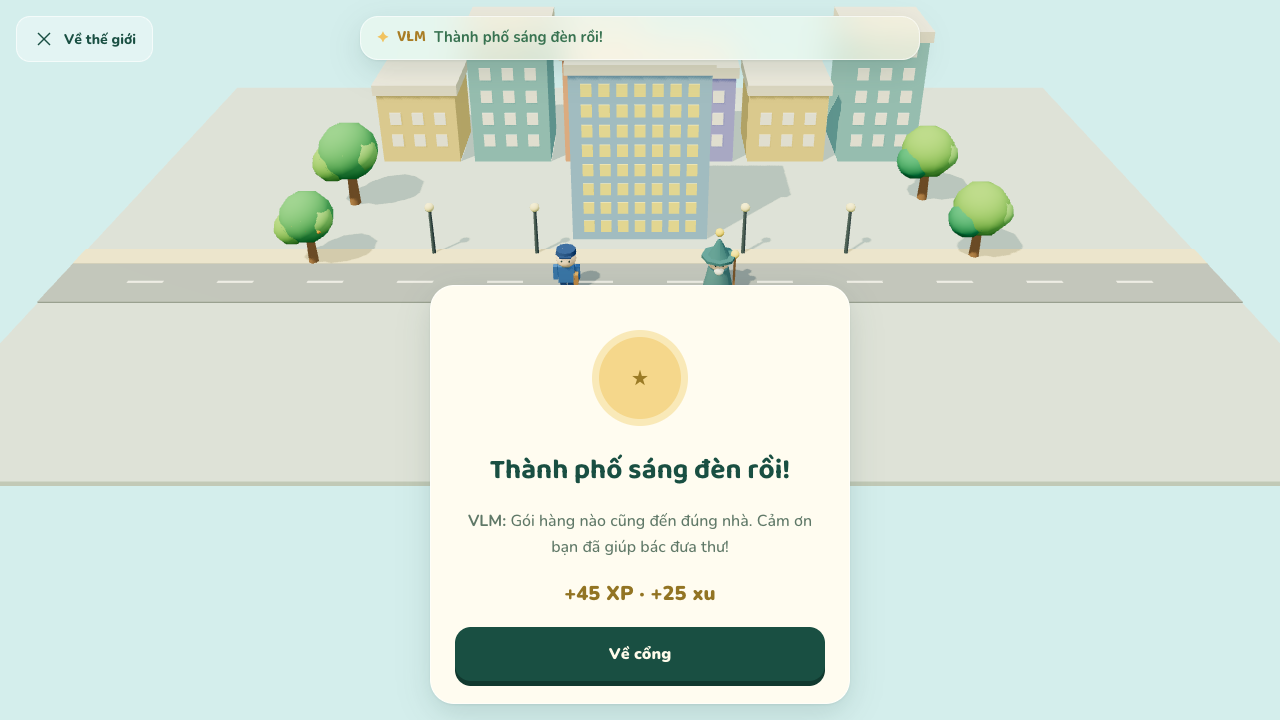
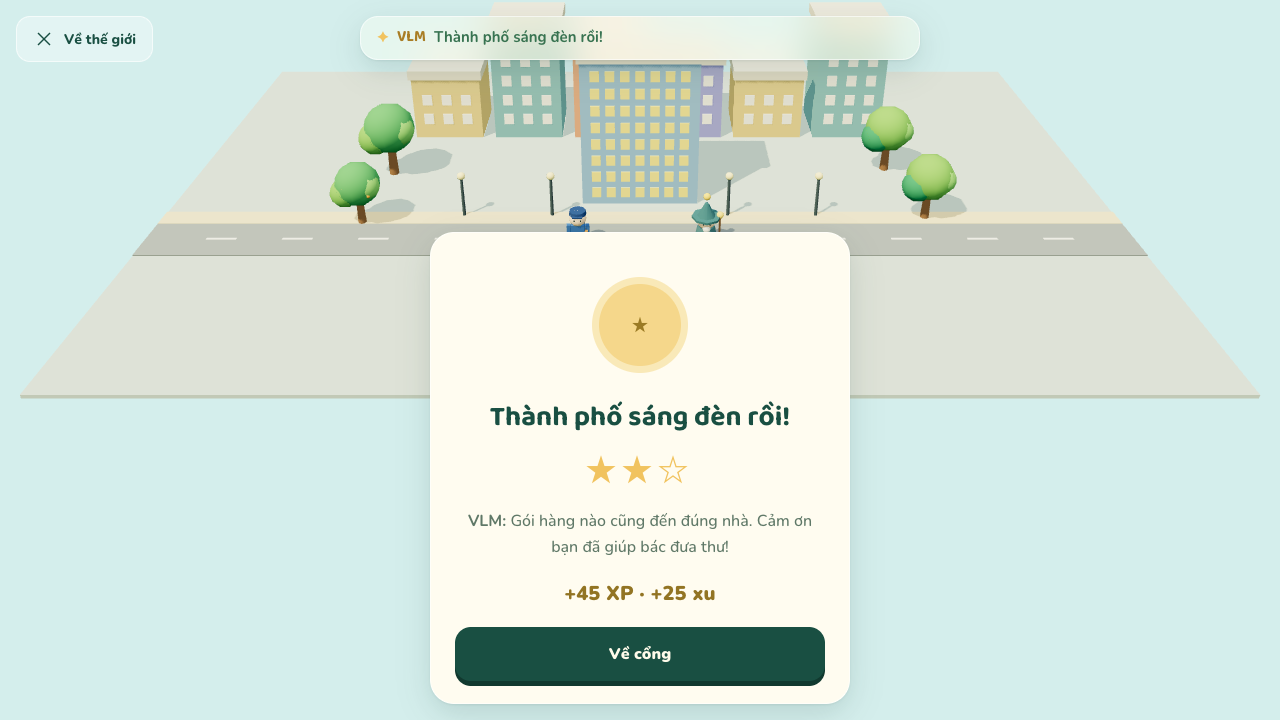
docs: record city/tower review fixes and refresh author-review screens

diff --git a/plans/261024-1515-city-and-tower-levels/phase-04-merge-e2e-parity-and-author-review.md b/plans/261024-1515-city-and-tower-levels/phase-04-merge-e2e-parity-and-author-review.md
@@ -44,3 +44,27 @@
 
 ## Next steps
 - Back to the old plan's phases 16–18 (Supabase, accounts, Vercel deploy).
+
+## Review fixes
+Findings from `reports/reviewer-city-tower-levels.md`, fixed on main (commits c98fb25, dc008f8, 49c81df, 206b232; tag `full-map-reviewed`).
+
+| Finding | Outcome |
+|---|---|
+| H1 city windows count shows the product | Fixed: lit floors only, "3/9 tầng sáng"; announcement "Tầng n sáng đèn. Đã sáng a trên b tầng." No window total anywhere. Unit `city-strings.test.ts`, e2e `city-level.spec.ts` asserts the exact text. |
+| H2 tower rung 4 shows the answer, floor still correct | Fixed: rung 4 is a strategy from a known fact (× 1, 2, 5, 10) with the result as "?" (e.g. "Mốc dễ nhớ: 8 × 5 = 40. Thêm 2 lần 8 nữa là ra 8 × 7 = ?"). The result only appears on the three-miss path (recorded not correct, Leitner requeue). Unit test sweeps every pool fact × format × step. |
+| M3 city reverse hints name the right parcel | Fixed: own rungs (find / compare with p / rule out an untried parcel / "p : t = ?"); unit test: no rung ≥2 names the right parcel or both factors. |
+| M4 `hintSkip` mentions windows in delivery | Fixed: `hintCount` for delivery rounds. |
+| M5 tower hint carries to next step | Fixed: rung resets and the hint area clears on step advance (hints taken still count). |
+| M6 true claim "Đúng" credited as recall | Fixed with a confirm step: after "Đúng" the claim is replaced by the same equation with "?" on the pad; one recorded question. |
+| M7 tower per-frame allocations | Fixed: stone spots precomputed, camera target reused. No test (perf, not behavior). |
+| M8 tower equation never announced, cards unnamed | Fixed: floor and step equations announced in words ("mấy nhân 7 bằng 56"); cards named "56 (phím 1)". Unit test + e2e aria-label check. |
+| M9 tower leak baseline after warm-up | Fixed: `tower-level-leak.spec.ts` uses the settled baseline before the first visit (shared `city-and-tower-settled-memory.ts`); both leak specs assert geometries and textures. |
+| L10 wrong houses still accept drops | Fixed: a wrong house (or reverse parcel) leaves the drop zones / picks for that round. |
+| L11 inverse of 8 × 10 outside the pool | Fixed: 80 : 8. |
+| L12 `hintTen` ambiguous | Fixed: counts back on the factor closest to 10 with clearer wording. |
+| L13 text nits | Fixed: tower `wrong` "Chưa đúng, mình thử lại nhé!", shorter tower intro, city `hintCommute` rephrased. |
+| L14 tower duplicates tally, city has no stars | Fixed: shared `levels/shared/level-run-tally.ts` (tested) used by city and tower; city celebration shows the star row (e2e: equals stored stars). Field keeps its own tally (out of scope). |
+| L15 H key only in city | Fixed: H in tower too; in both levels only while focus is in the level layer (or nowhere). |
+
+Gates: lint 0 errors / 9 pre-existing warnings, typecheck clean, unit 71 files / 473 tests, build ok, e2e 63 passed + 1 skipped (desktop-only full chain) on both projects, parity 20/20 without re-baseline, golden byte-identical.
+Screens refreshed: `reports/city-screens/{desktop,mobile}-0{3,4,5}-*.png`, `reports/tower-screens/{desktop,mobile}-05-top-celebration.png`, new `reports/tower-screens/04-hint-rung-4.png`.
